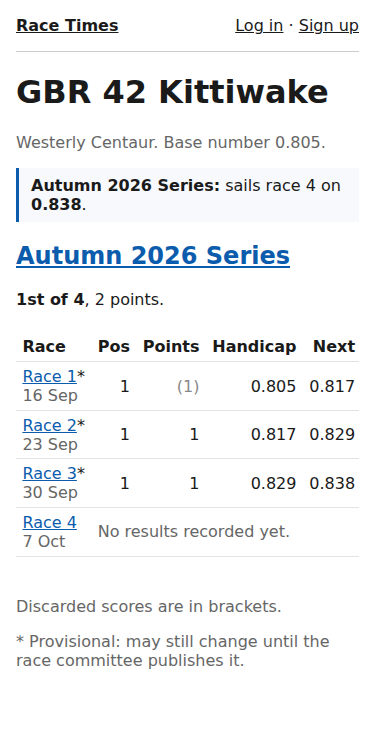
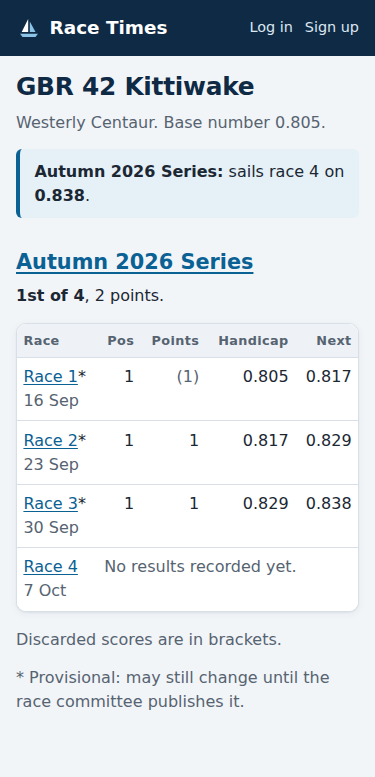
Slice 7: manual screenshots, docs, and slice complete
Every manual screenshot is regenerated in the new look; the two admin ones
are unchanged, as the admin keeps its look. The manual's descriptions of
how things look still hold, so no text changed. CLAUDE.md describes the
stylesheet and its tests, and docs/plan.md marks slice 7 complete.

Claude-Session: https://claude.ai/code/session_01QY3tQYF5nVQS35pznUQfpw

diff --git a/CLAUDE.md b/CLAUDE.md
@@ -85,7 +85,7 @@ a pointer instead.
   over them; `tests/conftest.py` wraps the same objects as pytest fixtures. All
   fixture I/O happens there, never inside `nhc/`. `tests/test_manual.py` is the
   one non-engine test there: it checks the user manual's links and contents.
-- `config/` is the Django project (settings, root URLs, WSGI/ASGI). `races/` is the app: Boat, Series, SeriesEntry, Race, RaceEntry and Finish models, set up through the Django admin; `races/scoring.py` replays a series through `nhc` on every request (nothing derived is stored); `races/audit.py` records every change to a score-affecting field as a `ScoringChange` row (who, when, old and new, and a reason for corrections), called explicitly from the finish view and the admin rather than via signals; a committee-only HTMX finish-entry page and a committee-only history page per series. Roles (see `docs/brief.md`) are in `races/roles.py`: member = active account, race committee = staff in the "Race committee" group (created by migration 0005, with no permissions on accounts), administrator = superuser; use `committee_required` / `member_required`, never `is_staff` alone. Members change nothing directly: `races/member_views.py` creates `BoatRequest`/`EntryRequest` rows, and `races/approvals.py` applies one when the committee approves it on the Requests page, through the same audit code as the admin. Email (slice 4) goes only through `races/notifications.send`, which sends after the transaction commits and turns a failure into a logged warning on the page rather than an error; templates are `templates/emails/*.txt`, first line the subject. `races/publishing.py` publishes a race's results and decides "amended since sent" from the change history. `races/start_sheet.py` (slice 6) keeps each race's start sheet (`RaceEntry`): only a boat on it can have a finish, every boat on it needs a time or a code before publishing, and a boat on it with nothing recorded is still scored DNC but shown as "Not recorded". Start sheet changes are not audited, since none moves a score. The test builder `record()` puts the boat on the start sheet first. `races/urls.py` is included at the site root. Project-level templates live in `templates/` (`base.html` loads HTMX and sends the CSRF token via `hx-headers`, so HTMX POSTs work without per-form tokens); HTMX is vendored at `static/js/htmx.min.js` (v2.0.10), not loaded from a CDN. `ping` is an example view demonstrating HTMX fragment responses. `races/testing.py` has builders for the app's tests.
+- `config/` is the Django project (settings, root URLs, WSGI/ASGI). `races/` is the app: Boat, Series, SeriesEntry, Race, RaceEntry and Finish models, set up through the Django admin; `races/scoring.py` replays a series through `nhc` on every request (nothing derived is stored); `races/audit.py` records every change to a score-affecting field as a `ScoringChange` row (who, when, old and new, and a reason for corrections), called explicitly from the finish view and the admin rather than via signals; a committee-only HTMX finish-entry page and a committee-only history page per series. Roles (see `docs/brief.md`) are in `races/roles.py`: member = active account, race committee = staff in the "Race committee" group (created by migration 0005, with no permissions on accounts), administrator = superuser; use `committee_required` / `member_required`, never `is_staff` alone. Members change nothing directly: `races/member_views.py` creates `BoatRequest`/`EntryRequest` rows, and `races/approvals.py` applies one when the committee approves it on the Requests page, through the same audit code as the admin. Email (slice 4) goes only through `races/notifications.send`, which sends after the transaction commits and turns a failure into a logged warning on the page rather than an error; templates are `templates/emails/*.txt`, first line the subject. `races/publishing.py` publishes a race's results and decides "amended since sent" from the change history. `races/start_sheet.py` (slice 6) keeps each race's start sheet (`RaceEntry`): only a boat on it can have a finish, every boat on it needs a time or a code before publishing, and a boat on it with nothing recorded is still scored DNC but shown as "Not recorded". Start sheet changes are not audited, since none moves a score. The test builder `record()` puts the boat on the start sheet first. `races/urls.py` is included at the site root. Project-level templates live in `templates/` (`base.html` loads HTMX and sends the CSRF token via `hx-headers`, so HTMX POSTs work without per-form tokens); HTMX is vendored at `static/js/htmx.min.js` (v2.0.10), not loaded from a CDN. The look (slice 7) is one hand-written stylesheet, `static/css/site.css`: every colour is a token in its `:root`, and `races/test_styles.py` checks the tokens meet WCAG AA contrast, that no colour is written anywhere else, and that pages load only the site's own files. `templates/500.html` copies the look inline and loads nothing. `ping` is an example view demonstrating HTMX fragment responses. `races/testing.py` has builders for the app's tests.
 - `results/` is the public results app (slice 5): the home page (boat search, latest results, every series), a series page and a boat page, at `/`, `/series/<pk>/` and `/boats/<pk>/`. It only reads: no models, GET-only views, and it shows what `races.scoring.score_series` computes and nothing else. It imports from `races`; `races` never imports from it (it links to it by URL name only). `results/test_read_only.py` enforces all of this. Each HTMX interaction goes to the same URL as its full page; `results/views.py:_render` returns just the targeted fragment when `request.htmx` names it. Public pages never show owners' names.
 - User manual: `manual/` is for the site's users (members, race committee, administrator), organised by role and written in plain CommonMark plus tables so it stays portable; `mkdocs.yml` lists its pages and `.readthedocs.yaml` publishes it. `docs/` is developer documentation and is not part of it. `tests/test_manual.py` checks every link, image and contents entry; screenshots come from `scripts/manual_screenshots/` against throwaway sample data.
 - Hosting: `render.yaml` deploys `main` to Render on every push, running `build.sh` (collectstatic, migrate, `ensure_superuser`) and then `gunicorn`; see `docs/deploying.md`. With `DJANGO_DEBUG=0` the settings switch to production behaviour: WhiteNoise serves static files, cookies are HTTPS-only, and a missing `DJANGO_SECRET_KEY` stops the site starting.

diff --git a/docs/plan.md b/docs/plan.md
@@ -247,11 +247,41 @@ A start sheet for every race: the committee records which boats in the
 series are racing (the brief's user journey 3). Owners are emailed when their
 boat is put on or taken off a start sheet, or removed from a series.
 
-## Slice 7: visual styling. **Status: planned (2026-09-24)**
+## Slice 7: visual styling. **Status: complete (2026-09-24)**
 
-Spec: `docs/slices/07-visual-styling.md`. No data model changes.
+Acceptance criteria, from `docs/slices/07-visual-styling.md`:
+
+- [x] Every page uses the new styles, checked in headless Chromium at
+      1000 px and 375 px as the role that sees it. No page scrolls
+      sideways at 375 px, and the boat page's results table now fits its
+      box.
+- [x] Behaviour is unchanged: every existing test passes with no change to
+      what it asserts, and the same page checks pass with JavaScript off.
+- [x] Every colour is a token. `races/test_styles.py` checks 38 text and
+      background pairs against WCAG AA, and that no colour is written
+      outside `:root`.
+- [x] Every link, button and field reached with the keyboard shows a focus
+      outline, checked by tabbing through each role's first page.
+- [x] Buttons, race buttons and header links are at least 44 px tall at
+      375 px.
+- [x] Pages load only the site's own files, and the error page loads
+      nothing; tested.
+- [x] The Django admin and the emails are unchanged.
+- [x] Every manual screenshot is regenerated. The manual's descriptions of
+      how things look (the blue next-handicap box, a saved row turning
+      green) still hold.
+
+Manual check: screenshots of every page at both widths, as the public, a
+member and the committee, with JavaScript on and off.
+
+Found while checking: the base input style sat above each form's own
+sizes, so it now lives in `:where()`. The finish time box was widened for
+browsers that show a 12-hour clock with seconds.
+
+Still true on a phone: the "My requests" table on My boats has five text
+columns, so it scrolls sideways inside its own box, as wide tables are
+designed to. The page itself does not.
 
 A clean, simple, modern look for every page of the site: neutral nautical
 colours, the device's own font, light only, and the Django admin left as it
-is. Pure CSS from one stylesheet built on design tokens, with no framework,
-JavaScript or new dependency. How pages behave doesn't change.
+is.

diff --git a/docs/slices/07-visual-styling.md b/docs/slices/07-visual-styling.md
@@ -36,8 +36,9 @@ point its members at. How pages behave stays exactly as it is.
   - Every class, id and `hx-` attribute that HTMX, the tests or the
     screenshot script relies on stays as it is.
 - **A small favicon**: an SVG sail in the accent colour, stored in `static/`.
-  It gives the browser tab something better than a blank page. *(My
-  suggestion; a one-file asset, not a dependency. Easy to drop.)*
+  It gives the browser tab something better than a blank page, and doubles
+  as the mark beside the site's name. *(My suggestion, which the project
+  owner went ahead with; a one-file asset, not a dependency.)*
 
 ### What changes on screen
 - **Header:** the site name ("Race Times") on the navy band, with the
